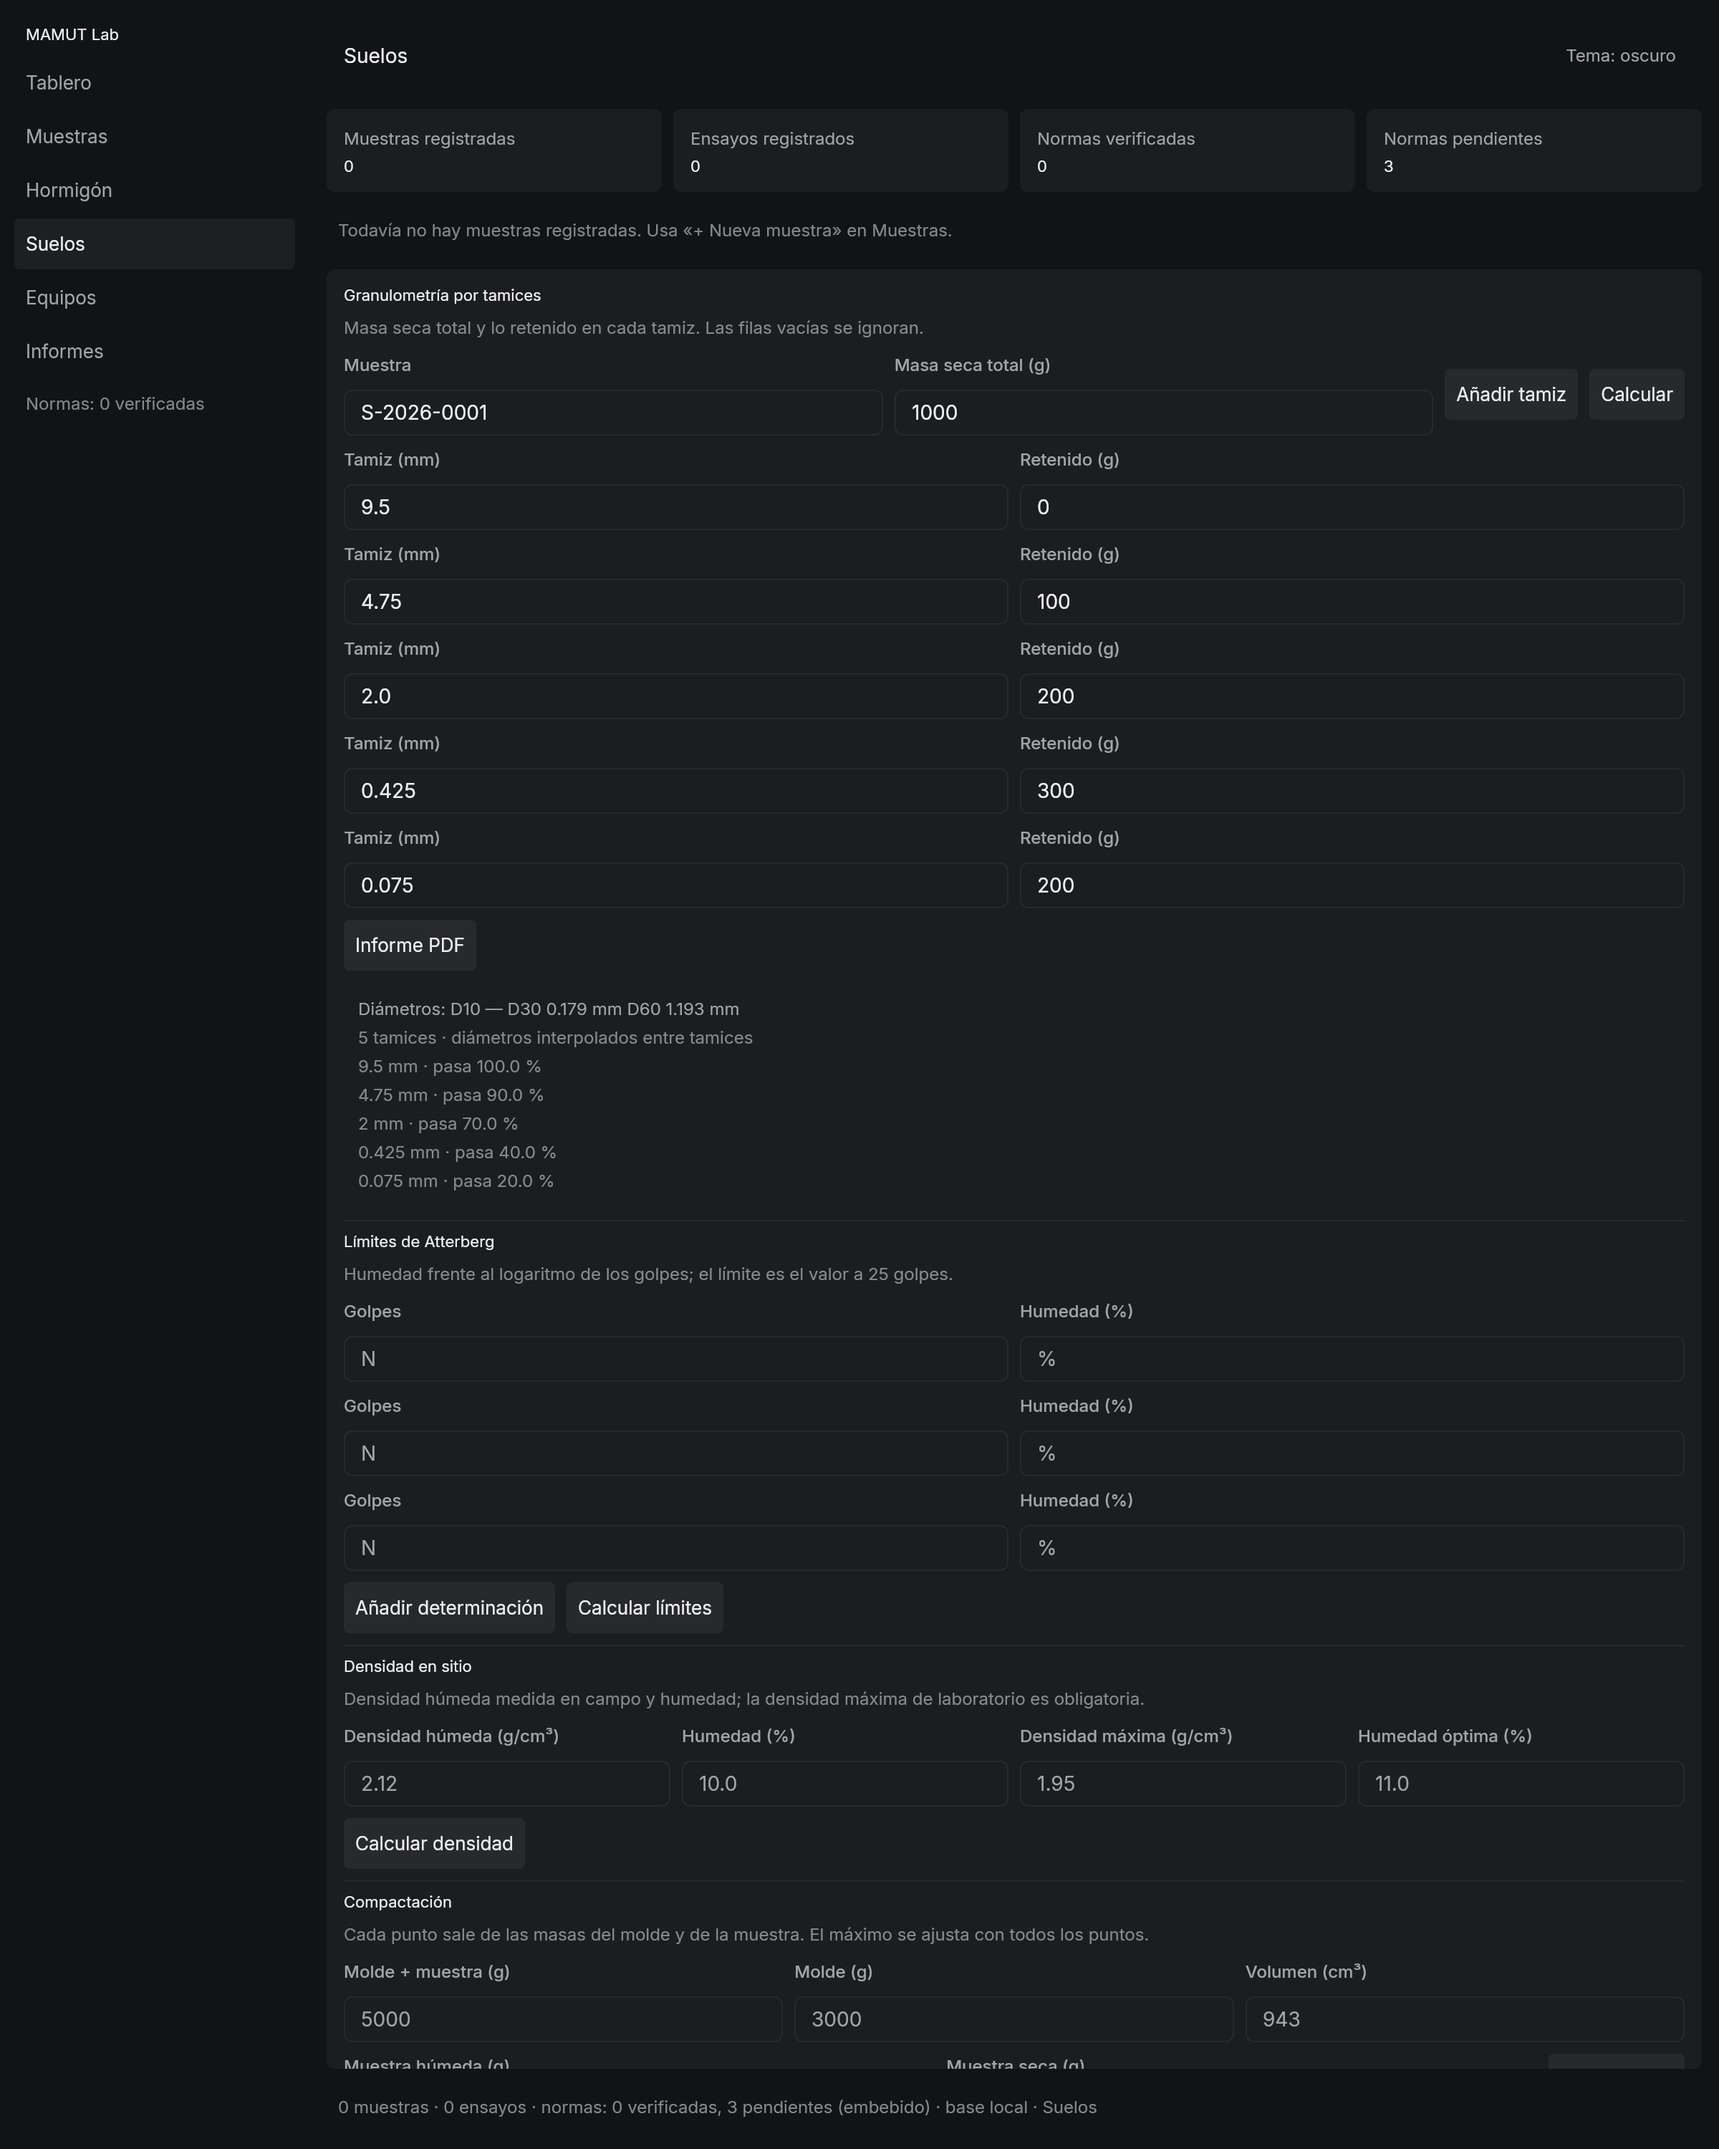
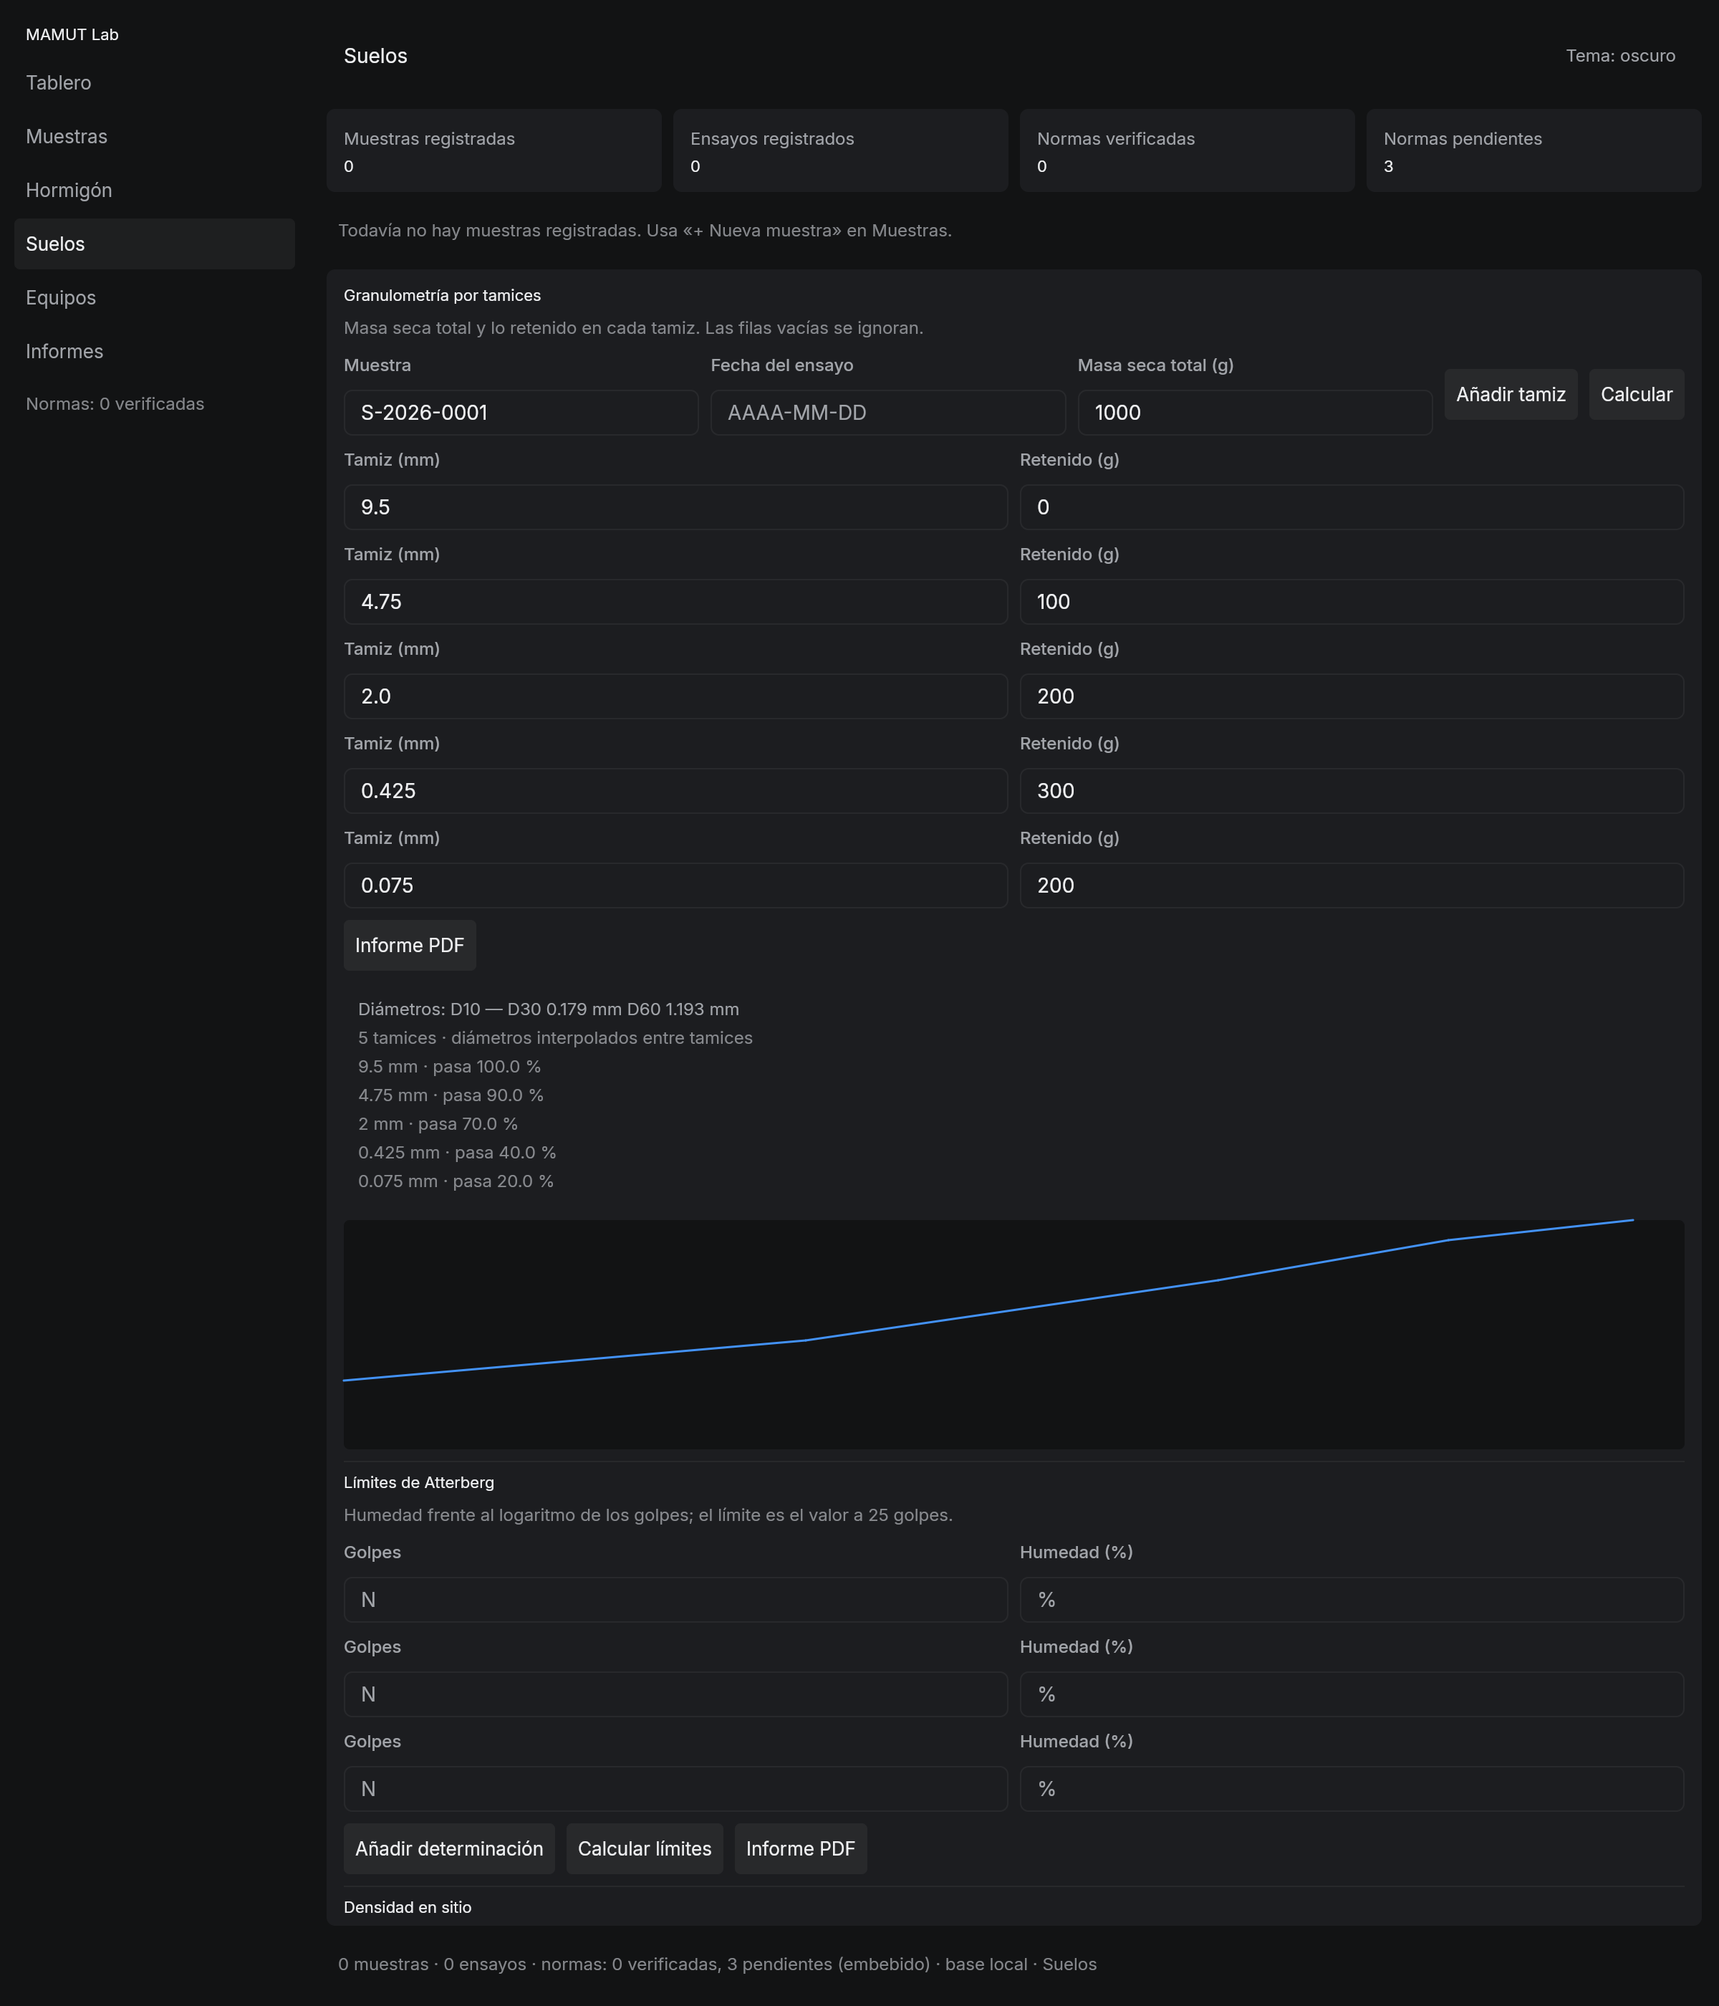
feat(fase-3): curva granulometrica semilogaritmica
- El panel de suelos dibuja la curva con el eje de aberturas en escala logaritmica y el
  porcentaje que pasa en lineal, con la geometria de mamut-charts.
- 1 prueba nueva; 408 en el workspace; captura actualizada.

diff --git a/crates/mamut-app/src/view.rs b/crates/mamut-app/src/view.rs
@@ -13,6 +13,51 @@ use rune_kit::{Cell, Kit, SortDir, Table, TableColumn, TextField};
 use crate::state::{AppState, Nav, SampleRow};
 use crate::store::ExportFormat;
 
+/// Curva granulométrica en escala semilogarítmica.
+///
+/// El eje de aberturas es logarítmico porque así se lee una granulometría: la distancia
+/// entre 2 mm y 0,2 mm tiene que ser la misma que entre 0,2 y 0,02. La geometría la calcula
+/// `mamut-charts`; aquí solo se convierte en un trazo.
+fn granulometry_shape(
+    passing: &[(f64, f64)],
+    width: f32,
+    height: f32,
+    color: rune::Color,
+) -> Shape {
+    if passing.len() < 2 {
+        return Shape::new();
+    }
+    // De fino a grueso: el eje x crece hacia la derecha.
+    let mut points: Vec<(f64, f64)> = passing
+        .iter()
+        .map(|(size, value)| (*size, *value))
+        .collect();
+    points.sort_by(|a, b| a.0.total_cmp(&b.0));
+
+    let x_min = points.first().map(|p| p.0).unwrap_or(0.0);
+    let x_max = points.last().map(|p| p.0).unwrap_or(0.0);
+    if x_min <= 0.0 || x_max <= x_min {
+        return Shape::new();
+    }
+
+    let spec = LineChartSpec {
+        points: &points,
+        plot: Rect::new(0.0, 0.0, width, height),
+        x: Scale::Log10 {
+            min: x_min,
+            max: x_max,
+        },
+        y: Scale::Linear {
+            min: 0.0,
+            max: 100.0,
+        },
+        x_ticks: Vec::new(),
+        y_ticks: vec![0.0, 25.0, 50.0, 75.0, 100.0],
+        limits: Vec::new(),
+    };
+    Shape::new().stroke(line_chart(&spec).line, 1.5, color)
+}
+
 /// Serie resistencia–edad como polilínea, para el gráfico del ensayo.
 ///
 /// La geometría la calcula `mamut-charts` (probada sin ventana); aquí solo se convierte
@@ -899,6 +944,21 @@ pub fn view(state: &AppState, cx: &mut Cx<AppState>) -> El {
         }))
         .children(soils_error)
         .children(soils_result)
+        .children(state.soils.outcome.as_ref().map(|outcome| {
+            el()
+                .key("granulometry-chart")
+                .w_full()
+                .h(160.0)
+                .padding(8.0)
+                .radius(kit.radius.sm)
+                .fill(kit.c.bg_deep)
+                .shape(granulometry_shape(
+                    &outcome.passing,
+                    900.0,
+                    140.0,
+                    rune::tok::accent(0, dark),
+                ))
+        }))
         .child(el().w_full().h(1.0).fill(kit.c.layer_02))
         .child(
             text("Límites de Atterberg")

diff --git a/crates/mamut-app/tests/shell.rs b/crates/mamut-app/tests/shell.rs
@@ -1572,3 +1572,22 @@ fn el_ensayo_guardado_se_puede_releer_con_sus_datos_y_su_autor() {
     assert_eq!(reports.len(), 1);
     assert_eq!(reports[0].issued_by, "ana");
 }
+
+#[test]
+fn la_granulometria_dibuja_la_curva_semilogaritmica() {
+    let mut rt = runtime_with_store();
+    press(&mut rt, "nav-3");
+    rt.state.soils.sample.text = "S-2026-0090".to_owned();
+    rt.state.soils.total.text = "1000".to_owned();
+    for (index, value) in ["0", "100", "200", "300", "200"].iter().enumerate() {
+        rt.state.soils.rows[index].retained.text = (*value).to_owned();
+    }
+
+    press(&mut rt, "calculate-granulometry");
+
+    assert!(rt.state.soils.outcome.is_some());
+    assert!(
+        rt.presented("granulometry-chart").is_some(),
+        "la curva granulométrica debe dibujarse con el resultado"
+    );
+}
